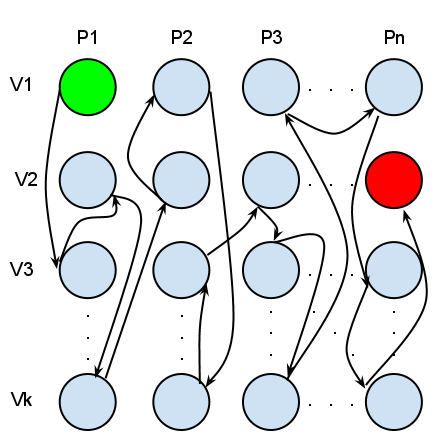
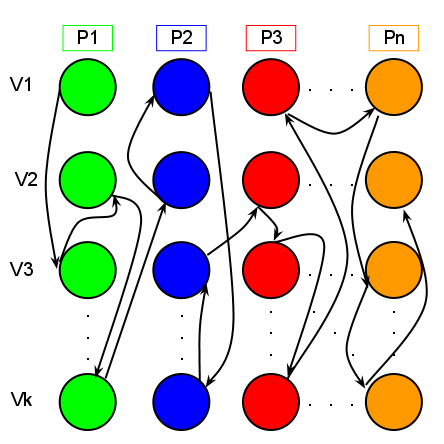
draft complete

diff --git a/doc/poster/poster_PGAS_SC11.tex b/doc/poster/poster_PGAS_SC11.tex
@@ -53,22 +53,21 @@
 				\begin{alertblock}{Abstract}
 					Benchmarks for High-Performance clusters generally focus on floating-point intensive calculations. Few of these address data intensive graph operations, a class of computation rapidly growing in demand.  As an alternative to standard floating-point benchmarks, a new benchmark, the Graph 500 has been proposed. The benchmark employ's multiple implementations with the intention to identify desecrate performance aspects via the comparative results, however a PGAS model has yet to be developed. This project focuses on understanding what capabilities a UPC Graph 500 implementation may offer. Specifically: 1. the UPC expressibility for irregular graph operations of Graph 500 and 2. simple performance testing of the efficiency of UPC.
 				\end{alertblock}
-				\vskip2ex
 %=======================Linked List Traversal======================================================================================
 				\begin{block}{Random Access}
-					When performing graph operations, random access to memory and random process communication are generally very common.  This test looks at how well a UPC Graph 500 implementation of may handle these operations.  To do so, we implement a dot product employing randomized access and communication through the RDMA. 
+					When performing graph operations, random access to memory and random process communication are generally very common.  This test looks at how well a UPC Graph 500 implementation of may handle these operations.  To do so, we implement a dot product employing randomized access and communication through the RDMA.   The affinity to the vectors are distributed across all processes in the group and colored according.  Successive vector positions are stored successive memory locations of the according process.  
 				\end{block}
 				\begin{columns}[t,totalwidth=0.60\paperwidth]
 					\begin{column}{0.28\paperwidth}
-						\lstinputlisting[language=C, basicstyle=\footnotesize]{ mpiSimpleSample.c}
+						\lstinputlisting[language=C, basicstyle=\footnotesize]{ code_sample/upcRandomAccess.c}
 					\end{column}
 					\begin{column}{0.28\paperwidth}
 						\begin{columns}[t,totalwidth=0.28\paperwidth]
 							\begin{column}{0.12\paperwidth}
-								\begin{center} \includegraphics[width=0.12\paperwidth]{img/rand_access} \end{center}
+								\includegraphics[width=0.12\paperwidth]{img/rand_access}
 							\end{column}
 							\begin{column}{0.12\paperwidth}
-								\begin{center} \includegraphics[width=0.12\paperwidth]{img/logo_graph500} \end{center}
+								\includegraphics[width=0.12\paperwidth]{img/temp}
 							\end{column}
 						\end{columns}
 					\end{column}
@@ -91,7 +90,7 @@
 %These tests can be representative of graph traversal operations and irregular algorithms. They particularly test the class of computation UPC one-sided programming model would be used for. 
 %=======================Linked List Traversal======================================================================================
 				\begin{block}{Linked List Traversal}
-					As a simple test to measure the efficiency of UPC when performing graph operations, various linked list structure have been set and up an the linked list traversal of which is timed.  
+					As a simple test to measure the efficiency of UPC when performing graph operations, various linked list structure have been built and a timed traversal is taken for each.  Similar to the previous test test, the affinity of the nodes are distributed across all processes in the group and colored according.  Successive nodes are stored in successive memory locations of the according process as well.  
 				\end{block}
 				\begin{columns}[t,totalwidth=0.60\paperwidth]
 					\begin{column}{0.28\paperwidth}
@@ -101,7 +100,7 @@
 								\begin{center} \includegraphics[width=0.12\paperwidth]{img/linked_list/seq_node_seq_proc} \end{center}
 							\end{column}
 							\begin{column}{0.12\paperwidth}
-								\begin{center} \includegraphics[width=0.12\paperwidth]{img/logo_graph500} \end{center}
+								\begin{center} \includegraphics[width=0.12\paperwidth]{img/temp} \end{center}
 							\end{column}
 						\end{columns}
 					\end{column}
@@ -112,7 +111,7 @@
 								\begin{center} \includegraphics[width=0.12\paperwidth]{img/linked_list/seq_proc_seq_node} \end{center}
 							\end{column}
 							\begin{column}{0.12\paperwidth}
-								\begin{center} \includegraphics[width=0.12\paperwidth]{img/logo_graph500} \end{center}
+								\begin{center} \includegraphics[width=0.12\paperwidth]{img/temp} \end{center}
 							\end{column}
 						\end{columns}
 					\end{column}
@@ -125,7 +124,7 @@
 								\begin{center} \includegraphics[width=0.12\paperwidth]{img/linked_list/rand_node_seq_proc} \end{center}
 							\end{column}
 							\begin{column}{0.12\paperwidth}
-								\begin{center} \includegraphics[width=0.12\paperwidth]{img/logo_graph500} \end{center}
+								\begin{center} \includegraphics[width=0.12\paperwidth]{img/temp} \end{center}
 							\end{column}
 						\end{columns}
 					\end{column}
@@ -136,7 +135,7 @@
 								\begin{center} \includegraphics[width=0.12\paperwidth]{img/linked_list/seq_proc_rand_node} \end{center}
 							\end{column}
 							\begin{column}{0.12\paperwidth}
-								\begin{center} \includegraphics[width=0.12\paperwidth]{img/logo_graph500} \end{center}
+								\begin{center} \includegraphics[width=0.12\paperwidth]{img/temp} \end{center}
 							\end{column}
 						\end{columns}
 					\end{column}
@@ -149,7 +148,7 @@
 								\begin{center} \includegraphics[width=0.12\paperwidth]{img/linked_list/seq_node_rand_proc} \end{center}
 							\end{column}
 							\begin{column}{0.12\paperwidth}
-								\begin{center} \includegraphics[width=0.12\paperwidth]{img/logo_graph500} \end{center}
+								\begin{center} \includegraphics[width=0.12\paperwidth]{img/temp} \end{center}
 							\end{column}
 						\end{columns}
 					\end{column}
@@ -160,7 +159,7 @@
 								\begin{center} \includegraphics[width=0.12\paperwidth]{img/linked_list/rand_proc_seq_node} \end{center}
 							\end{column}
 							\begin{column}{0.12\paperwidth}
-								\begin{center} \includegraphics[width=0.12\paperwidth]{img/logo_graph500} \end{center}
+								\begin{center} \includegraphics[width=0.12\paperwidth]{img/temp} \end{center}
 							\end{column}
 						\end{columns}
 					\end{column}
@@ -173,7 +172,7 @@
 								\begin{center} \includegraphics[width=0.12\paperwidth]{img/linked_list/rand_proc_rand_node} \end{center}
 							\end{column}
 							\begin{column}{0.12\paperwidth}
-								\begin{center} \includegraphics[width=0.12\paperwidth]{img/logo_graph500} \end{center}
+								\begin{center} \includegraphics[width=0.12\paperwidth]{img/temp} \end{center}
 							\end{column}
 						\end{columns}
 					\end{column}
@@ -185,10 +184,22 @@
 			\end{column}
 			\begin{column}{0.28\paperwidth}
 %=======================Discussion=======================================================================================================
-				\begin{block}{Discussion of all Results}
+				\begin{block}{Graph 500 BFS}
+				The Graph 500 currently employs multiple implementations using MPI and OpenMP.  
+					
+					The "Simple" MPI implementation achieves two-sided communication through communicator functions such as  \emph{send} and \emph{receive}. Sample from Graph500 BFS MPI Simple:\vspace{2 mm}
+					\lstinputlisting[language=C, basicstyle=\footnotesize]{ code_sample/mpiSimpleSample.c}
+					 \vspace{5 mm}
+					  The "One Sided" MPI implementation achieves one-sided communication through MPI \emph{windows}, a feature built into MPICH2 API.  When a thread creates an MPI \emph{window} access to another threads address space is enabled through the variables associated through that window.  Sample from the Graph500 BFS MPI One Sided: 
+					  \vspace{2 mm}
+					  \lstinputlisting[language=C, basicstyle=\footnotesize]{ code_sample/mpiOneSidedSample.c} 
+					  \vspace{5 mm}
+					  A UPC implementation of the Graph 500 will not require "windows" to achieve one sided communication.  However, address space used in any collective operations need to be allocated in shared memory space and receive the according performance loss of accessing memory a shared pointer over a local pointer.  MPI collectives from the Graph500 BFS implemented in UPC take the simpler implementation as follows: 
+					  \vspace{2 mm}
+					  \lstinputlisting[language=C, basicstyle=\footnotesize]{ code_sample/upcOneSidedSample.c} 
 				\end{block}
 %=======================Conclusion========================================================================================================
-				\begin{block}{Conclusion and Future Work}
+				\begin{block}{Conclusion}
 				\end{block}
 %=======================References========================================================================================================
 				\begin{block}{References}

diff --git a/doc/poster/code_sample/mpiSimpleSample.c b/doc/poster/code_sample/mpiSimpleSample.c
@@ -1,6 +1,7 @@
-MPI_Irecv( recvbuf, coalescSize * 2, INT64_T_MPI_TYPE,
-  MPI_ANY_SOURCE, 0, MPI_COMM_WORLD, &recvreq);
+MPI_Irecv( recvbuf, coalescSize * 2, 
+          INT64_T_MPI_TYPE, MPI_ANY_SOURCE, 
+          0, MPI_COMM_WORLD, &recvreq);
 
-MPI_Isend( &outgoing[ dest * coalescSize * 2], 0, 
-  INT64_T_MPI_TYPE, dest, 0, 
+MPI_Isend( &outgoing[ dest * coalescSize * 2], 
+          0, INT64_T_MPI_TYPE, dest, 0, 
   MPI_COMM_WORLD, &outgoing_reqs[dest]);

diff --git a/doc/poster/code_sample/upcRandomAccess.c b/doc/poster/code_sample/upcRandomAccess.c
@@ -1,0 +1,16 @@
+#define N 10000
+shared int *shared vectorA; 
+shared int *shared vectorB; 
+
+void initilize() {
+    /*initize vectorA and vectorB with affinity 
+        distributed accross threads*/}
+void randomAccess() {
+ int i;
+ upc_forall( i= 0; i< N; i++, i) 
+    {vectorA[rand()%THREADS][rand()%N]*
+        vectorB[rand()%THREADS][rand()%N];}}
+
+
+
+    

diff --git a/doc/poster/code_sample/mpiOneSidedSample.c b/doc/poster/code_sample/mpiOneSidedSample.c
@@ -1,5 +1,5 @@
 //Open window
-MPI_Win_create(pred, nlocalverts * sizeof(int64_t), 
+MPI_Win_create(pred, nlocalverts*sizeof(int64_t), 
   sizeof(int64_t), MPI_INFO_NULL, 
   MPI_COMM_WORLD, &pred_win);
 //close window
